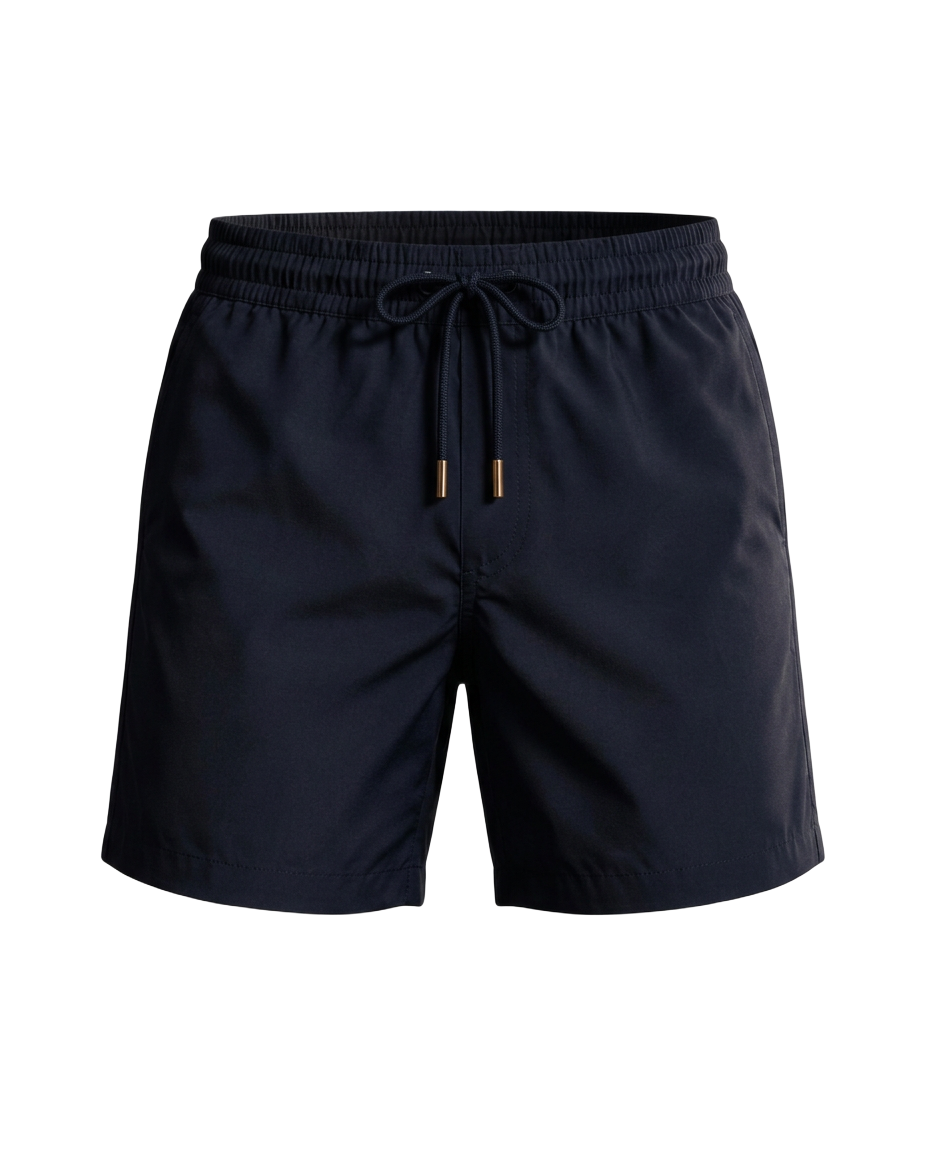
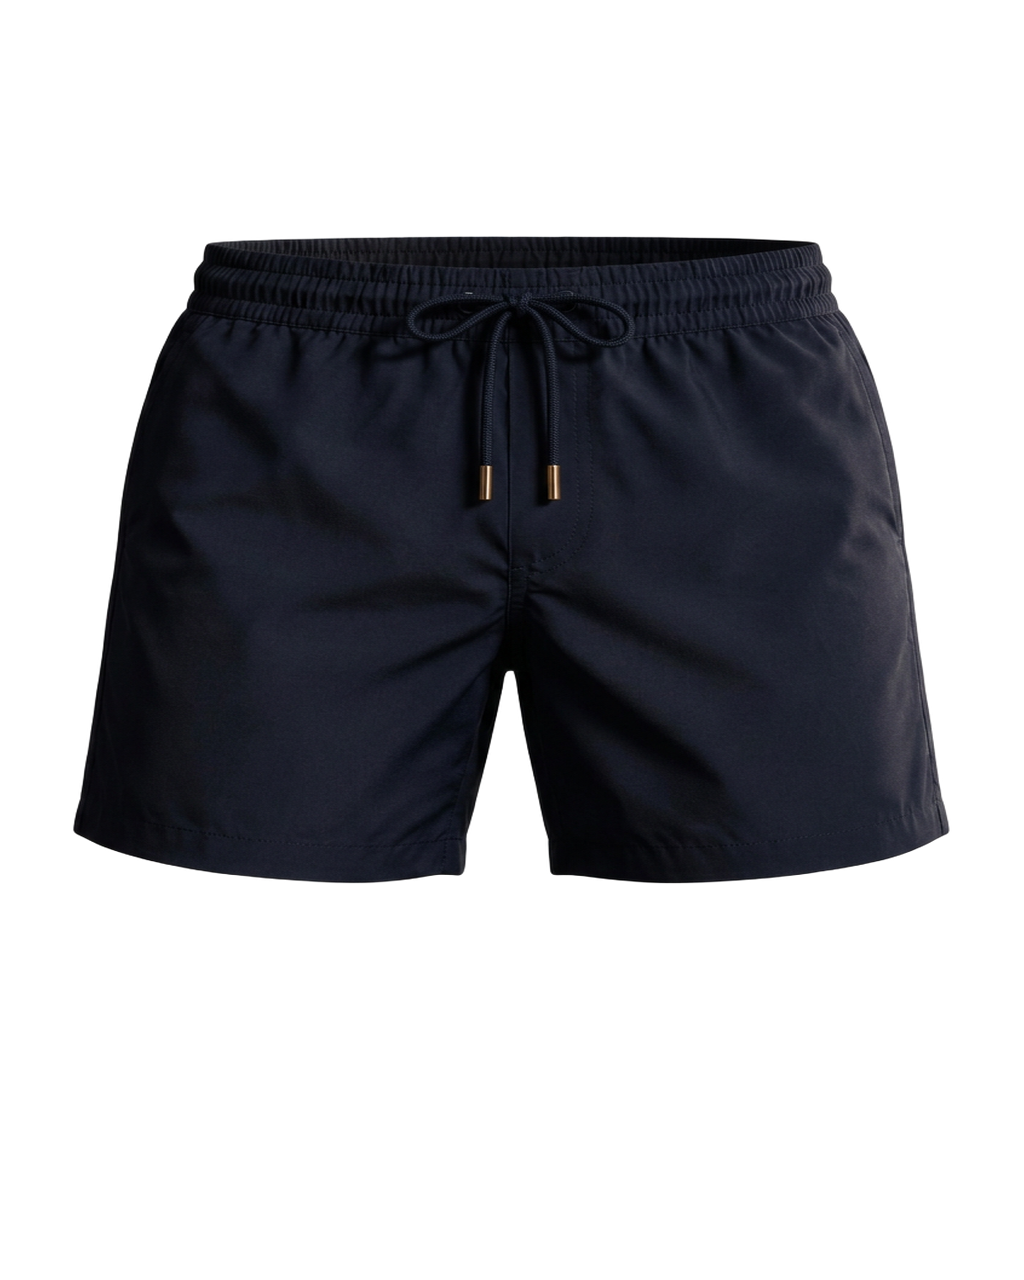
Changes

diff --git a/roadmap.md b/roadmap.md
@@ -1,5 +1,6 @@
 # Roadmap
 
-- [x] Replace Noir, Abyss, and Sable with consistent floating product photography.
-- [x] Confirm each product remains linked to its individual product page.
-- [x] Verify collection and product presentation across desktop, tablet, and mobile.
+- [x] Refine Noir, Abyss, and Sable with premium fabric and construction detail.
+- [x] Normalize all three products to one identical, larger presentation size.
+- [ ] Use the refined set across every grouped collection display.
+- [ ] Verify matching scale and rendering at desktop, tablet, and mobile sizes.
